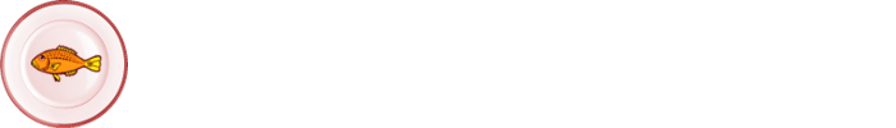
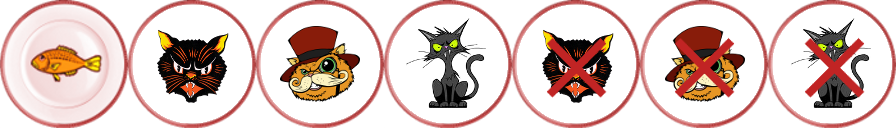
highscore functionality was added cat tiles was finished reset highscore option was added share button was updated

diff --git a/src/com/jelastic/energy/zombie/Overlay.java b/src/com/jelastic/energy/zombie/Overlay.java
@@ -9,6 +9,7 @@ import org.anddev.andengine.entity.modifier.SequenceEntityModifier;
 import org.anddev.andengine.entity.primitive.Rectangle;
 import org.anddev.andengine.entity.scene.Scene;
 import org.anddev.andengine.entity.sprite.Sprite;
+import org.anddev.andengine.entity.text.ChangeableText;
 import org.anddev.andengine.input.touch.TouchEvent;
 import org.anddev.andengine.util.modifier.IModifier;
 import org.anddev.andengine.util.modifier.ease.EaseBounceOut;
@@ -18,6 +19,7 @@ public class Overlay extends Rectangle {
 
     private Sprite shareButton;
     private Sprite startButton;
+    protected ChangeableText highscoreText;
 
     private float startScale;
 
@@ -40,10 +42,15 @@ public class Overlay extends Rectangle {
             }
         };
         startScale = width / (4 * startButton.getWidth()) ;
-        startButton.setPosition((width - startButton.getWidth())/ 2 , (height - startButton.getHeight())/ 2);
+        startButton.setPosition((width - startButton.getWidth())/ 2 , (height - startButton.getHeight()) / 2);
         startButton.setScale(startScale);
 
+        highscoreText = new ChangeableText(startButton.getX(), startButton.getY() + startButton.getHeight() * 2, GameActivity.self.mFont, "Highscore: " + Game.getInstance().getHighscore(), 15);
+        highscoreText.setPosition((GameActivity.self.getWidth() - highscoreText.getWidth())  / 2, highscoreText.getY());
+        highscoreText.setVisible(Game.getInstance().getHighscore() > 0);
+
         attachChild(startButton);
+        attachChild(highscoreText);
 
         shareButton = new Sprite(0, 0, GameActivity.self.theme.getShareButton()) {
             @Override
@@ -55,7 +62,8 @@ public class Overlay extends Rectangle {
             }
         };
         shareButton.setPosition(width - shareButton.getWidth(), height - shareButton.getHeight());
-        float scale = (height / 3) * 100f / shareButton.getHeight();
+        shareButton.setVisible(false);
+        float scale = (height / 4) * 100f / shareButton.getHeight();
         shareButton.setScaleCenter(shareButton.getWidth(), shareButton.getHeight());
         shareButton.setScale(scale / 100f);
 
@@ -81,24 +89,11 @@ public class Overlay extends Rectangle {
                 Game.getInstance().reset();
                 Game.getInstance().start();
 
-                ///timerText.setVisible(true);
                 setVisible(false);
 
                 for (Target target : Game.getInstance().getTargets()) {
                     scene.registerTouchArea(target);
                 }
-
-                /*
-                //started = true;
-                //score = 0;
-                //startTime = new Date().getTime();
-                //timerText.setVisible(true);
-
-                scene.clearTouchAreas();
-                for (Target target : targets) {
-                    scene.registerTouchArea(target);
-                }
-                 */
             }
         }, new AlphaModifier(.5f, .5f, 0)));
 
@@ -130,7 +125,6 @@ public class Overlay extends Rectangle {
                 }, new ScaleModifier(.3f, 0f, startScale, EaseStrongOut.getInstance())));
 
                 shareButton.setVisible(true);
-                //timerText.setVisible(false);
                 scene.registerTouchArea(shareButton);
             }
         }, new AlphaModifier(.5f, 0, .5f)));

diff --git a/src/com/jelastic/energy/zombie/Game.java b/src/com/jelastic/energy/zombie/Game.java
@@ -1,6 +1,8 @@
 package com.jelastic.energy.zombie;
 
+import android.content.SharedPreferences;
 import org.anddev.andengine.engine.handler.IUpdateHandler;
+import org.anddev.andengine.entity.text.ChangeableText;
 import org.anddev.andengine.util.MathUtils;
 
 import java.util.ArrayList;
@@ -33,7 +35,7 @@ public class Game extends Observable {
                 return;
             }
 
-            //timerText.setText(" " + getTimeLeft() + " sec");
+            GameActivity.self.timerText.setText(" " + getTimeLeft() + " sec");
 
             elapsed += pSecondsElapsed;
             if (elapsed < .02) {
@@ -58,6 +60,7 @@ public class Game extends Observable {
 
             if (getTimeLeft() <= 0) {
                 setStarted(false);
+                setHighscore(getScore());
                 setChanged();
                 notifyObservers();
             }
@@ -87,7 +90,9 @@ public class Game extends Observable {
     public void start() {
         if (started) return;
         setStarted(true);
+        reset();
         startTime = new Date().getTime();
+        GameActivity.self.timerText.setVisible(true);
         notifyObservers();
     }
 
@@ -133,5 +138,41 @@ public class Game extends Observable {
         return (front ? 0.005f : .0007f) + progressExtra;
     }
 
+    public int getScore() {
+        return score;
+    }
 
+    public void setScore(int score) {
+        this.score = Math.max(0, score);
+        ChangeableText scoreText = GameActivity.self.scoreText;
+        scoreText.setText("Score: " + getScore());
+        GameActivity.self.timerText.setPosition(scoreText.getWidth() + scoreText.getX(), scoreText.getY());
+    }
+
+    public int getHighscore() {
+        return GameActivity.self.settings.getInt("highscore", 0);
+    }
+
+    public void setHighscore(int newHighscore) {
+        if (newHighscore > 0 && newHighscore > getHighscore()) {
+            this.highscore = newHighscore;
+            SharedPreferences.Editor editor = GameActivity.self.settings.edit();
+            editor.putInt("highscore", score);
+            editor.commit();
+            ChangeableText highscoreText = GameActivity.self.overlay.highscoreText;
+            highscoreText.setText("Highscore: " + highscore);
+            highscoreText.setPosition((GameActivity.self.getWidth() - highscoreText.getWidth())  / 2, highscoreText.getY());
+            highscoreText.setVisible(true);
+        }
+    }
+
+    public void resetScore() {
+        SharedPreferences.Editor editor = GameActivity.self.settings.edit();
+        editor.putInt("highscore", 0);
+        editor.commit();
+        ChangeableText highscoreText = GameActivity.self.overlay.highscoreText;
+        highscoreText.setText("Highscore: 0");
+        highscoreText.setPosition((GameActivity.self.getWidth() - highscoreText.getWidth())  / 2, highscoreText.getY());
+        highscoreText.setVisible(false);
+    }
 }

diff --git a/src/com/jelastic/energy/zombie/GameActivity.java b/src/com/jelastic/energy/zombie/GameActivity.java
@@ -39,16 +39,14 @@ public class GameActivity extends LayoutGameActivity implements Observer {
     private int width;
     private int height;
 
-    private Overlay overlay;
+    protected Overlay overlay;
 
-    protected int score;
+    protected ChangeableText scoreText;
+    protected ChangeableText timerText;
 
-    private ChangeableText scoreText;
-    private ChangeableText timerText;
-    
 
     public static GameActivity self;
-    private SharedPreferences settings;
+    protected SharedPreferences settings;
     private Scene scene;
     public Theme theme;
 
@@ -103,11 +101,6 @@ public class GameActivity extends LayoutGameActivity implements Observer {
 
     @Override
     public Scene onLoadScene() {
-        if (settings.contains("score")) {
-            score = settings.getInt("score", 0);
-        }
-        score = 0;
-
         scene = new Scene();
         createScene(scene);
         return scene;
@@ -121,7 +114,7 @@ public class GameActivity extends LayoutGameActivity implements Observer {
         int leftOffset = (width - (5 * (size + dx))) / 2;
         int topTextOffset = height / 80;
 
-        scoreText = new ChangeableText(leftOffset, topTextOffset, mFont, "Score: " + getScore(), 11);
+        scoreText = new ChangeableText(leftOffset, topTextOffset, mFont, "Score: " + Game.getInstance().getScore(), 11);
         timerText = new ChangeableText(scoreText.getWidth() + leftOffset, topTextOffset, mFont, " " + Game.getInstance().getTimeLeft() + " sec", HorizontalAlign.RIGHT, 7);
         timerText.setVisible(false);
         scene.attachChild(scoreText);
@@ -145,19 +138,6 @@ public class GameActivity extends LayoutGameActivity implements Observer {
         Game.getInstance().addObserver(this);
     }
 
-    protected void setScore(int score) {
-        SharedPreferences.Editor editor = settings.edit();
-        editor.putInt("score", score);
-        editor.commit();
-        this.score = Math.max(0, score);
-        scoreText.setText("Score: " + getScore());
-        timerText.setPosition(scoreText.getWidth() + scoreText.getX(), scoreText.getY());
-    }
-
-    protected int getScore() {
-        return score;
-    }
-    
     @Override
     public void onLoadComplete() {
         AdView adView = (AdView)this.findViewById(R.id.adView);
@@ -201,6 +181,9 @@ public class GameActivity extends LayoutGameActivity implements Observer {
                 setQuality(!isQuality());
                 item.setTitle(isQuality() ? R.string.quality_high : R.string.quality_low);
                 restart();
+                return true;
+            case R.id.reset:
+                Game.getInstance().resetScore();
                 return true;
             default:
                 return super.onOptionsItemSelected(item);

diff --git a/gen/com/jelastic/energy/zombie/R.java b/gen/com/jelastic/energy/zombie/R.java
@@ -17,8 +17,9 @@ public final class R {
         public static final int adView=0x7f060001;
         public static final int quality=0x7f060002;
         public static final int render=0x7f060000;
-        public static final int sound=0x7f060003;
-        public static final int theme=0x7f060004;
+        public static final int reset=0x7f060005;
+        public static final int sound=0x7f060004;
+        public static final int theme=0x7f060003;
     }
     public static final class layout {
         public static final int main=0x7f030000;
@@ -30,6 +31,7 @@ public final class R {
         public static final int app_name=0x7f040000;
         public static final int quality_high=0x7f040002;
         public static final int quality_low=0x7f040001;
+        public static final int reset_score=0x7f040007;
         public static final int sound_off=0x7f040004;
         public static final int sound_on=0x7f040003;
         public static final int theme_cat=0x7f040006;

diff --git a/src/com/jelastic/energy/zombie/Target.java b/src/com/jelastic/energy/zombie/Target.java
@@ -103,6 +103,7 @@ public class Target extends TiledSprite {
 
     @Override
     public boolean onAreaTouched(TouchEvent pSceneTouchEvent, float pTouchAreaLocalX, float pTouchAreaLocalY) {
+        if (!Game.getInstance().isStarted()) return true;
         if (!pSceneTouchEvent.isActionDown()) return true;
         if (!front) {
             hit();
@@ -117,11 +118,11 @@ public class Target extends TiledSprite {
         rotate(1);
 
         GameActivity.self.theme.getHitSound().play();
-        GameActivity.self.setScore(GameActivity.self.getScore() + 10);
+        Game.getInstance().setScore(Game.getInstance().getScore() + 10);
     }
 
     private void miss()  {
         GameActivity.self.theme.getFailSound().play();
-        GameActivity.self.setScore(GameActivity.self.getScore() - 5);
+        Game.getInstance().setScore(Game.getInstance().getScore() - 5);
     }
 }

diff --git a/src/com/jelastic/energy/zombie/themes/AbstractTheme.java b/src/com/jelastic/energy/zombie/themes/AbstractTheme.java
@@ -47,7 +47,7 @@ public abstract class AbstractTheme implements Theme {
     @Override
     public TextureRegion getShareButton() {
         if (shareButton ==  null) {
-            shareButton = Resources.loadTexture(GameActivity.self, id + "/share.png", 256, 256);
+            shareButton = Resources.loadTexture(GameActivity.self, id + "/share.png", 128, 128);
         }
         return shareButton;
     }
